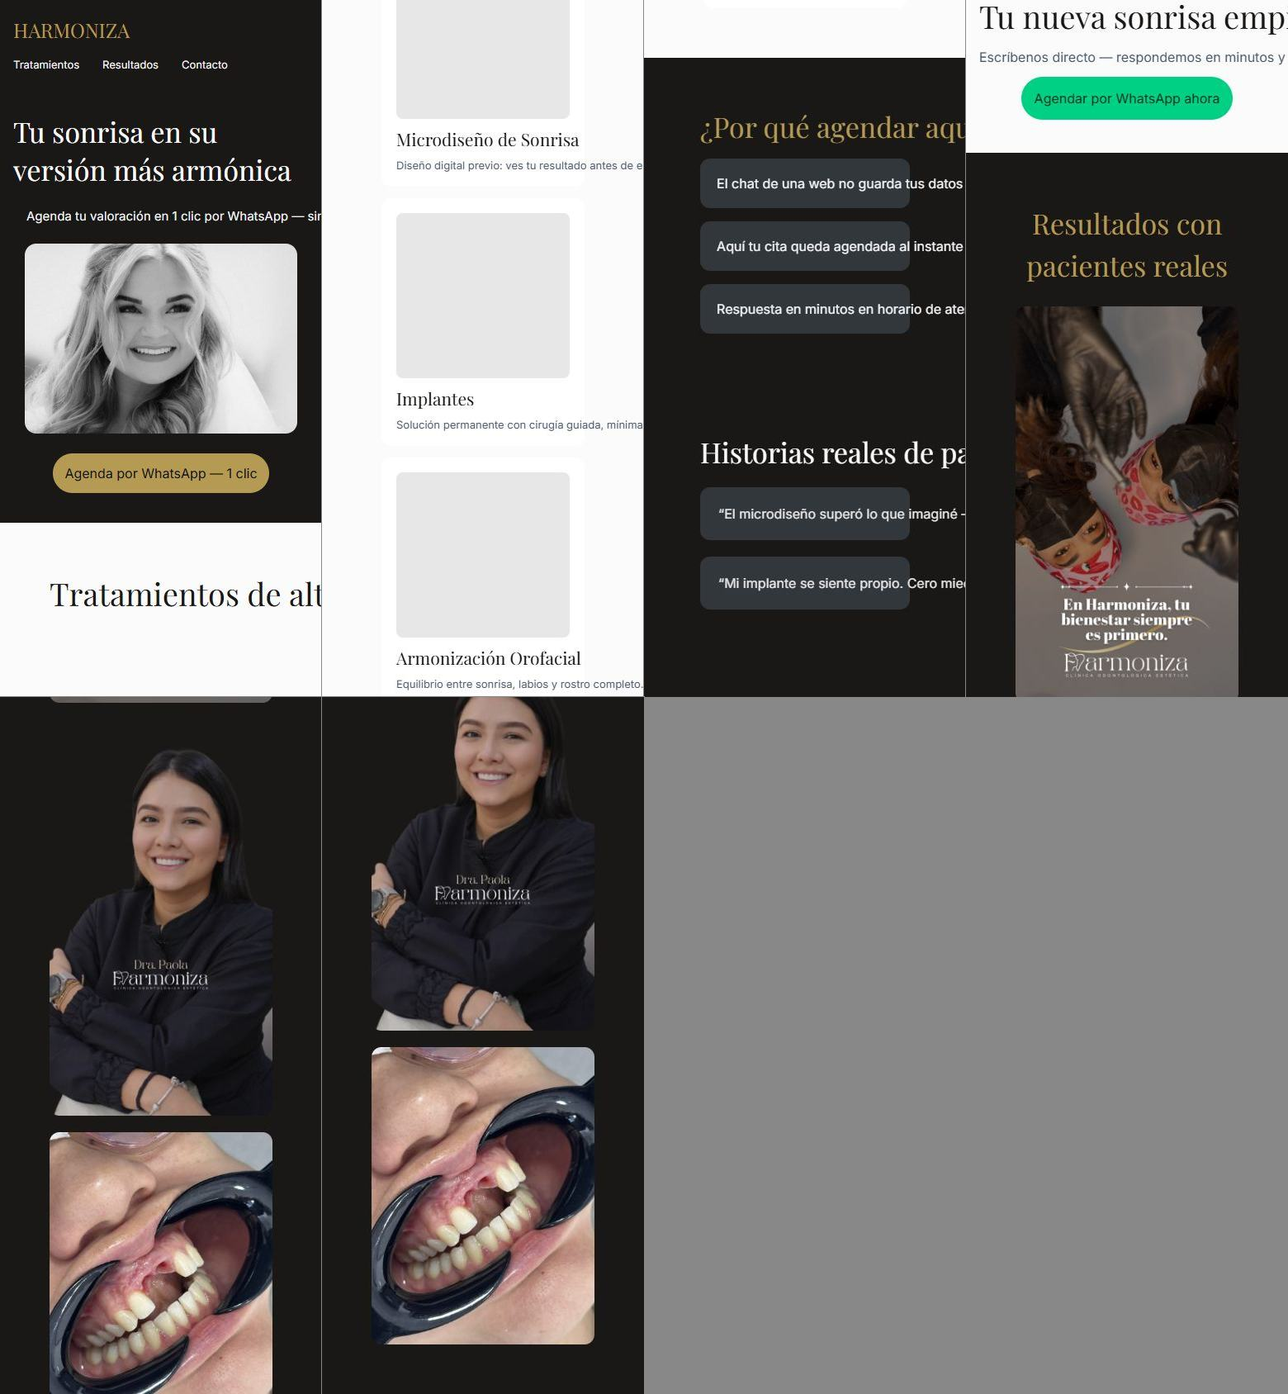
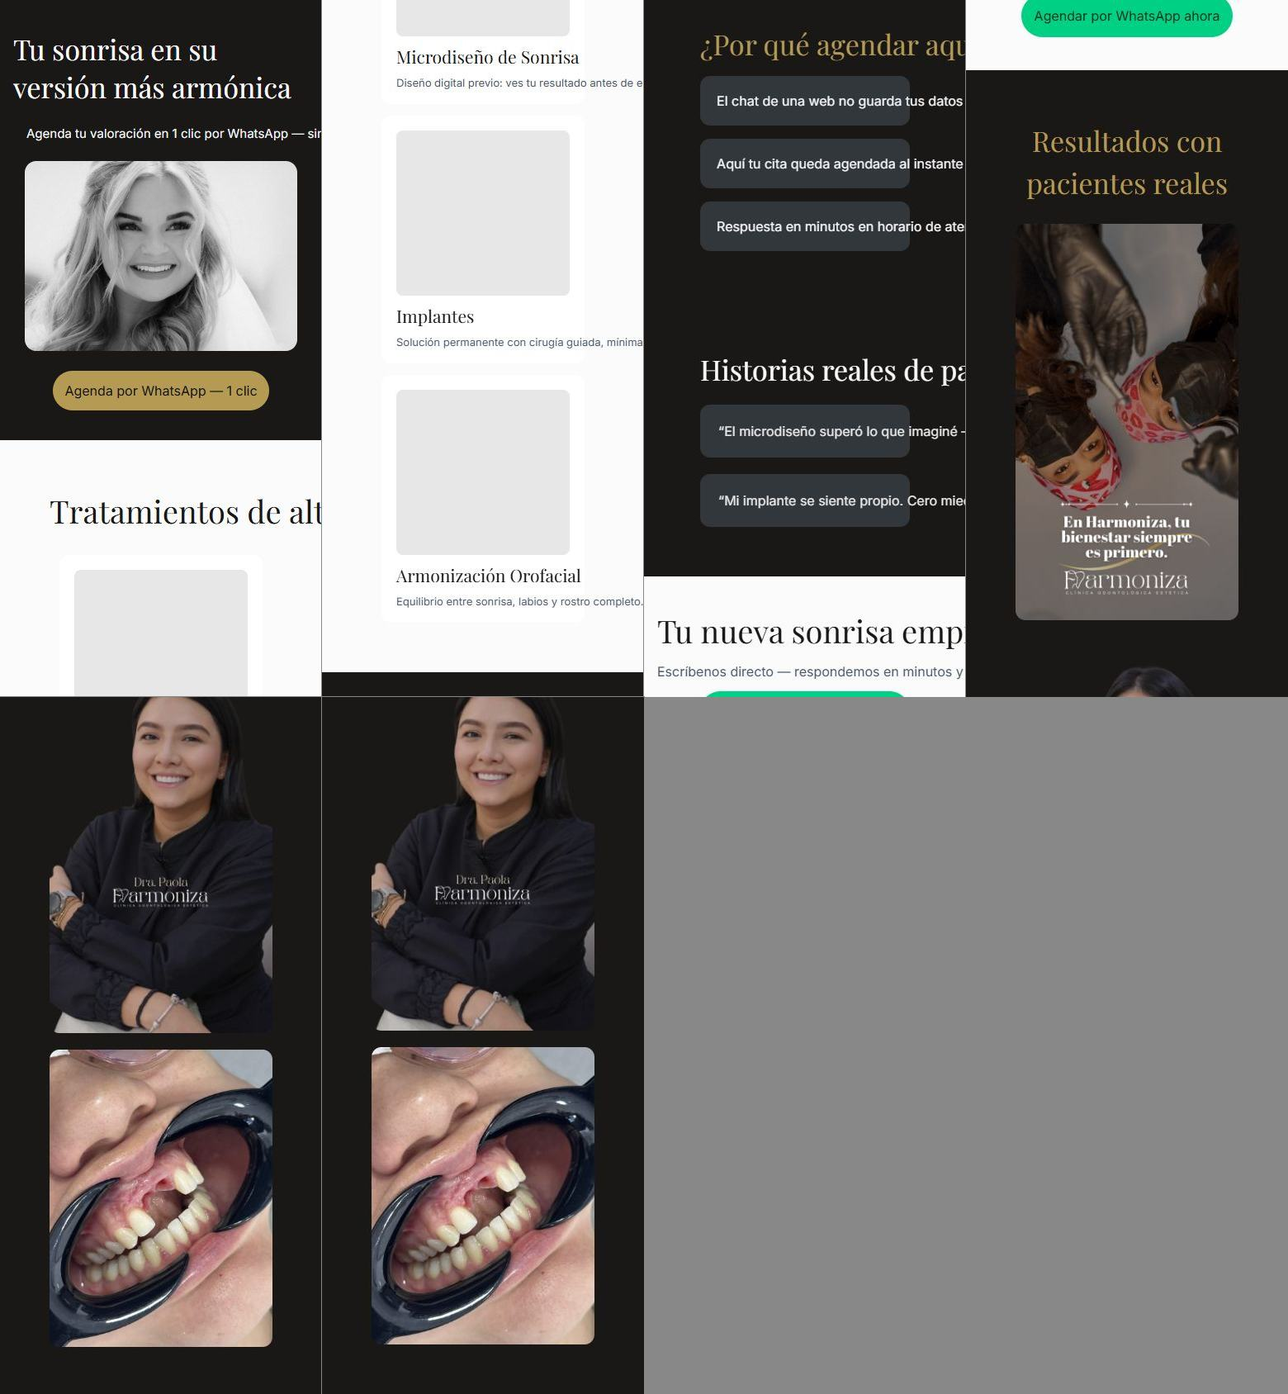
Harmoniza V9 REDISEÑO Apple-style: ritmo cinematico, alternancia secciones, tipografia display tight, dorado unico acento, stats banda

diff --git a/harmoniza-odontologia-estetica/index.html b/harmoniza-odontologia-estetica/index.html
@@ -27,7 +27,6 @@ html,body{margin:0;padding:0;background:#1A1816}
 body > div { max-width:100vw; overflow-x:hidden }
 @media (max-width: 768px) {
   [data-pencil-name="Nav"] { display:none !important }
-  [data-pencil-name="Nav"] { gap:12px !important; padding:14px 16px !important; flex-wrap:wrap !important }
   [data-pencil-name="H1"] { font-size:34px !important; white-space:normal !important; text-align:center }
   [data-pencil-name="Sub"] { font-size:15px !important; text-align:center; padding:0 16px }
   [data-pencil-name="Hero"] { padding:36px 16px !important; height:auto !important }
@@ -42,238 +41,228 @@ img{max-width:100%;height:auto}
 </style></head>
   <body>
     <div
-      data-pencil-name="Harmoniza V2"
+      data-pencil-name="Harmoniza Apple"
       class="box-border w-full max-w-[1440px] mx-auto h-fit flex flex-col gap-0 justify-start items-start bg-[#1A1816] overflow-hidden"
     >
       <div
-        data-pencil-name="Nav"
-        class="box-border w-full h-fit shrink-0 flex flex-row gap-[300px] p-[20px] justify-start items-center"
-      >
-        <div
-          data-pencil-name="LogoBox"
-          class="box-border w-fit shrink-0 h-[44px] flex flex-row gap-0 justify-start items-center"
-        >
-          <div
-            data-pencil-name="Logo"
-            class="text-[24px]/[normal] box-border text-[#B49A53] font-['Playfair_Display',system-ui,sans-serif] font-normal text-left [white-space:nowrap]"
-          >
-            HARMONIZA
-          </div>
-        </div>
-        <div
-          class="box-border w-fit shrink-0 h-fit flex flex-row gap-[28px] justify-start items-center"
-        >
-          <div
-            class="text-[13px]/[normal] box-border text-[#F3F4F6] font-[Inter,system-ui,sans-serif] font-normal text-left [white-space:nowrap]"
-          >
-            Tratamientos
-          </div>
-          <div
-            class="text-[13px]/[normal] box-border text-[#F3F4F6] font-[Inter,system-ui,sans-serif] font-normal text-left [white-space:nowrap]"
-          >
-            Resultados
-          </div>
-          <div
-            class="text-[13px]/[normal] box-border text-[#F3F4F6] font-[Inter,system-ui,sans-serif] font-normal text-left [white-space:nowrap]"
-          >
-            Contacto
-          </div>
-        </div>
-      </div>
-      <div
         data-pencil-name="Hero"
-        class="box-border w-full h-fit shrink-0 flex flex-col gap-[24px] p-[70px] justify-center items-center bg-[#1A1816]"
+        class="box-border w-full h-fit shrink-0 flex flex-col gap-[28px] p-[90px] justify-center items-center"
       >
         <div
           data-pencil-name="H1"
-          class="text-[58px]/[normal] box-border text-[#FBFBFB] font-['Playfair_Display',system-ui,sans-serif] font-normal text-left [white-space:nowrap]"
+          class="text-[56px]/[normal] box-border text-[#FBFBFB] font-['Playfair_Display',system-ui,sans-serif] font-semibold text-left [white-space:nowrap]"
         >
-          Tu sonrisa en su versión más armónica
+          Tu sonrisa, en su versión más armónica.
         </div>
         <div
           data-pencil-name="Sub"
-          class="text-[19px]/[normal] box-border text-[#F3F4F6] font-[Inter,system-ui,sans-serif] font-normal text-left [white-space:nowrap]"
+          class="text-[21px]/[normal] box-border text-[#B49A53] font-[Inter,system-ui,sans-serif] font-normal text-left [white-space:nowrap]"
         >
-          Agenda tu valoración en 1 clic por WhatsApp — sin formularios ni esperas. Rating 4.5+ en
-          reseñas reales de pacientes.
+          Odontología estética premium en Medellín. Diseño digital previo, resultado garantizado.
         </div>
         <div
           data-pencil-name="HeroImg"
-          class="box-border w-[1100px] h-[400px] shrink-0 flex flex-row gap-0 justify-start items-start bg-[url('https://images.unsplash.com/photo-1708127851232-d1a1bcbd5449?crop=entropy&amp;cs=tinysrgb&amp;fit=max&amp;fm=jpg&amp;ixid=M3w4NDM0ODN8MHwxfHJhbmRvbXx8fHx8fHx8fDE3OTIwMDU3NTd8&amp;ixlib=rb-4.1.0&amp;q=80&amp;w=1080')] bg-no-repeat bg-cover bg-center rounded-[14px]"
+          class="box-border w-[1200px] h-[520px] shrink-0 flex flex-row gap-0 justify-start items-start bg-[url('https://images.unsplash.com/photo-1647453042620-b41b8c8528f8?crop=entropy&amp;cs=tinysrgb&amp;fit=max&amp;fm=jpg&amp;ixid=M3w4NDM0ODN8MHwxfHJhbmRvbXx8fHx8fHx8fDE3OTIwMDg3MjF8&amp;ixlib=rb-4.1.0&amp;q=80&amp;w=1080')] bg-no-repeat bg-cover bg-center rounded-[12px]"
         ></div>
-        <a href="https://wa.me/573150596255?text=Hola%20Harmoniza%2C%20quiero%20agendar%20mi%20valoraci%C3%B3n" target="_blank" rel="noopener" style="text-decoration:none;display:inline-block"><div
-          data-pencil-name="CTA"
-          class="box-border w-fit h-fit shrink-0 flex flex-row gap-0 p-[14px] justify-start items-center bg-[#B49A53] rounded-[28px]"
+        <div
+          data-pencil-name="CTAs"
+          class="box-border w-fit h-fit shrink-0 flex flex-row gap-[16px] justify-start items-center"
+        >
+          <a href="https://wa.me/573150596255?text=Hola%20Harmoniza%2C%20quiero%20agendar%20mi%20valoraci%C3%B3n" target="_blank" rel="noopener" style="text-decoration:none;display:inline-block"><div data-pencil-name="CTA" class="box-border w-fit shrink-0 h-fit flex flex-row gap-0 p-[12px_24px] justify-start items-center bg-[#B49A53] rounded-[980px]"><div
+              class="text-[17px]/[normal] box-border text-[#1A1816] font-[Inter,system-ui,sans-serif] font-normal text-left [white-space:nowrap]"
+            >
+              <span style="color:#141210">Agenda tu valoración
+            </span></div>
+          </div></a>
+        </div>
+      </div>
+      <div
+        data-pencil-name="Rating"
+        class="box-border w-full h-fit shrink-0 flex flex-row gap-[60px] p-[50px] justify-center items-center bg-[#F5F4F0]"
+      >
+        <div
+          class="box-border w-fit shrink-0 h-fit flex flex-col gap-[6px] justify-start items-center"
         >
           <div
-            class="text-[16px]/[normal] box-border text-[#1A1816] font-[Inter,system-ui,sans-serif] font-normal text-left [white-space:nowrap]"
+            class="text-[48px]/[normal] box-border text-[#1A1816] font-['Playfair_Display',system-ui,sans-serif] font-semibold text-left [white-space:nowrap]"
           >
-            <span style="color:#141210">Agenda por WhatsApp — 1 clic</span>
+            4.5+
           </div>
-        </div></a>
+          <div
+            class="text-[15px]/[normal] box-border text-[#6B6560] font-[Inter,system-ui,sans-serif] font-normal text-left [white-space:nowrap]"
+          >
+            Rating en reseñas reales
+          </div>
+        </div>
+        <div
+          class="box-border w-fit shrink-0 h-fit flex flex-col gap-[6px] justify-start items-center"
+        >
+          <div
+            class="text-[48px]/[normal] box-border text-[#1A1816] font-['Playfair_Display',system-ui,sans-serif] font-semibold text-left [white-space:nowrap]"
+          >
+            +12
+          </div>
+          <div
+            class="text-[15px]/[normal] box-border text-[#6B6560] font-[Inter,system-ui,sans-serif] font-normal text-left [white-space:nowrap]"
+          >
+            Años de experiencia
+          </div>
+        </div>
+        <div
+          class="box-border w-fit shrink-0 h-fit flex flex-col gap-[6px] justify-start items-center"
+        >
+          <div
+            class="text-[48px]/[normal] box-border text-[#1A1816] font-['Playfair_Display',system-ui,sans-serif] font-semibold text-left [white-space:nowrap]"
+          >
+            +1000
+          </div>
+          <div
+            class="text-[15px]/[normal] box-border text-[#6B6560] font-[Inter,system-ui,sans-serif] font-normal text-left [white-space:nowrap]"
+          >
+            Pacientes atendidos
+          </div>
+        </div>
       </div>
       <div
         data-pencil-name="Tratamientos"
-        class="box-border w-full h-fit shrink-0 flex flex-col gap-[28px] p-[60px] justify-start items-start bg-[#FBFBFB]"
+        class="box-border w-full h-fit shrink-0 flex flex-col gap-[40px] p-[100px] justify-start items-start"
       >
         <div
           data-pencil-name="TratTitle"
-          class="text-[38px]/[normal] box-border text-[#1A1816] font-['Playfair_Display',system-ui,sans-serif] font-normal text-left [white-space:nowrap]"
+          class="text-[40px]/[normal] box-border text-[#FBFBFB] font-['Playfair_Display',system-ui,sans-serif] font-semibold text-left [white-space:nowrap]"
         >
-          Tratamientos de alto impacto
+          Tres caminos a una misma meta.
         </div>
         <div
           data-pencil-name="Grid"
-          class="box-border w-full h-fit shrink-0 flex flex-row gap-[20px] justify-start items-start"
+          class="box-border w-full h-fit shrink-0 flex flex-row gap-[28px] justify-start items-start"
         >
           <div
-            data-pencil-name="Card-Microdiseño de Sonrisa"
-            class="box-border [flex:1_1_0] h-fit flex flex-col gap-[10px] p-[18px] justify-start items-start bg-[#FFFFFF] rounded-[12px]"
+            data-pencil-name="Card-Microdiseño"
+            class="box-border [flex:1_1_0] h-fit flex flex-col gap-[14px] justify-start items-start"
           >
             <div
               data-pencil-name="Img"
-              class="box-border w-full h-[200px] shrink-0 flex flex-row gap-0 justify-start items-start bg-[#E7E7E7] rounded-[8px]"
+              class="box-border w-full h-[300px] shrink-0 flex flex-row gap-0 justify-start items-start bg-[url('https://images.unsplash.com/photo-1674770715040-a22a25e1eafc?crop=entropy&amp;cs=tinysrgb&amp;fit=max&amp;fm=jpg&amp;ixid=M3w4NDM0ODN8MHwxfHJhbmRvbXx8fHx8fHx8fDE3OTIwMDg3MjF8&amp;ixlib=rb-4.1.0&amp;q=80&amp;w=1080')] bg-no-repeat bg-cover bg-center rounded-[12px]"
             ></div>
             <div
-              class="text-[21px]/[normal] box-border text-[#1A1816] font-['Playfair_Display',system-ui,sans-serif] font-normal text-left [white-space:nowrap]"
+              class="text-[28px]/[normal] box-border text-[#FBFBFB] font-['Playfair_Display',system-ui,sans-serif] font-normal text-left [white-space:nowrap]"
             >
-              Microdiseño de Sonrisa
+              Microdiseño
             </div>
             <div
-              class="text-[13px]/[normal] box-border text-[#475569] font-[Inter,system-ui,sans-serif] font-normal text-left [white-space:nowrap]"
+              class="text-[15px]/[normal] box-border text-[#9C948C] font-[Inter,system-ui,sans-serif] font-normal text-left [white-space:nowrap]"
             >
-              Diseño digital previo: ves tu resultado antes de empezar.
+              Ves tu nueva sonrisa en digital antes de tocar un diente. Sesión única.
             </div>
           </div>
           <div
             data-pencil-name="Card-Implantes"
-            class="box-border [flex:1_1_0] h-fit flex flex-col gap-[10px] p-[18px] justify-start items-start bg-[#FFFFFF] rounded-[12px]"
+            class="box-border [flex:1_1_0] h-fit flex flex-col gap-[14px] justify-start items-start"
           >
             <div
               data-pencil-name="Img"
-              class="box-border w-full h-[200px] shrink-0 flex flex-row gap-0 justify-start items-start bg-[#E7E7E7] rounded-[8px]"
+              class="box-border w-full h-[300px] shrink-0 flex flex-row gap-0 justify-start items-start bg-[url('https://images.unsplash.com/photo-1728342057953-94bfad8f0e7e?crop=entropy&amp;cs=tinysrgb&amp;fit=max&amp;fm=jpg&amp;ixid=M3w4NDM0ODN8MHwxfHJhbmRvbXx8fHx8fHx8fDE3OTIwMDg3MjJ8&amp;ixlib=rb-4.1.0&amp;q=80&amp;w=1080')] bg-no-repeat bg-cover bg-center rounded-[12px]"
             ></div>
             <div
-              class="text-[21px]/[normal] box-border text-[#1A1816] font-['Playfair_Display',system-ui,sans-serif] font-normal text-left [white-space:nowrap]"
+              class="text-[28px]/[normal] box-border text-[#FBFBFB] font-['Playfair_Display',system-ui,sans-serif] font-normal text-left [white-space:nowrap]"
             >
               Implantes
             </div>
             <div
-              class="text-[13px]/[normal] box-border text-[#475569] font-[Inter,system-ui,sans-serif] font-normal text-left [white-space:nowrap]"
+              class="text-[15px]/[normal] box-border text-[#9C948C] font-[Inter,system-ui,sans-serif] font-normal text-left [white-space:nowrap]"
             >
-              Solución permanente con cirugía guiada, mínima invasión.
+              Cirugía guiada por computadora. Mínima invasión, recuperación rápida.
             </div>
           </div>
           <div
-            data-pencil-name="Card-Armonización Orofacial"
-            class="box-border [flex:1_1_0] h-fit flex flex-col gap-[10px] p-[18px] justify-start items-start bg-[#FFFFFF] rounded-[12px]"
+            data-pencil-name="Card-Armonización"
+            class="box-border [flex:1_1_0] h-fit flex flex-col gap-[14px] justify-start items-start"
           >
             <div
               data-pencil-name="Img"
-              class="box-border w-full h-[200px] shrink-0 flex flex-row gap-0 justify-start items-start bg-[#E7E7E7] rounded-[8px]"
+              class="box-border w-full h-[300px] shrink-0 flex flex-row gap-0 justify-start items-start bg-[url('https://images.unsplash.com/photo-1637325262439-1c4a17dc806c?crop=entropy&amp;cs=tinysrgb&amp;fit=max&amp;fm=jpg&amp;ixid=M3w4NDM0ODN8MHwxfHJhbmRvbXx8fHx8fHx8fDE3OTIwMDg3MjN8&amp;ixlib=rb-4.1.0&amp;q=80&amp;w=1080')] bg-no-repeat bg-cover bg-center rounded-[12px]"
             ></div>
             <div
-              class="text-[21px]/[normal] box-border text-[#1A1816] font-['Playfair_Display',system-ui,sans-serif] font-normal text-left [white-space:nowrap]"
+              class="text-[28px]/[normal] box-border text-[#FBFBFB] font-['Playfair_Display',system-ui,sans-serif] font-normal text-left [white-space:nowrap]"
             >
-              Armonización Orofacial
+              Armonización
             </div>
             <div
-              class="text-[13px]/[normal] box-border text-[#475569] font-[Inter,system-ui,sans-serif] font-normal text-left [white-space:nowrap]"
+              class="text-[15px]/[normal] box-border text-[#9C948C] font-[Inter,system-ui,sans-serif] font-normal text-left [white-space:nowrap]"
             >
-              Equilibrio entre sonrisa, labios y rostro completo.
+              Sonrisa, labios y rostro en equilibrio. El resultado se nota, el trabajo no.
             </div>
           </div>
         </div>
       </div>
       <div
-        data-pencil-name="PorQue"
-        class="box-border w-full h-fit shrink-0 flex flex-col gap-[16px] p-[60px] justify-start items-center bg-[#1A1816]"
+        data-pencil-name="Dolor"
+        class="box-border w-full h-fit shrink-0 flex flex-col gap-[24px] p-[100px] justify-start items-start bg-[#F5F4F0]"
       >
         <div
           data-pencil-name="DolorTitle"
-          class="text-[34px]/[normal] box-border text-[#B49A53] font-['Playfair_Display',system-ui,sans-serif] font-normal text-left [white-space:nowrap]"
+          class="text-[40px]/[normal] box-border text-[#1A1816] font-['Playfair_Display',system-ui,sans-serif] font-semibold text-left [white-space:nowrap]"
         >
-          ¿Por qué agendar aquí y no por el chat de la web?
+          ¿Por qué no usar el chat de la web?
         </div>
         <div
-          class="box-border w-[850px] h-fit shrink-0 flex flex-row gap-[8px] p-[20px] justify-start items-center bg-[#32373C] rounded-[12px]"
+          data-pencil-name="DolorTxt"
+          class="text-[17px]/[normal] box-border text-[#4A4440] font-[Inter,system-ui,sans-serif] font-normal text-left [white-space:nowrap]"
         >
-          <div
-            class="text-[16px]/[normal] box-border text-[#F3F4F6] font-[Inter,system-ui,sans-serif] font-normal text-left [white-space:nowrap]"
-          >
-            El chat de una web no guarda tus datos ni te recuerda la cita.
-          </div>
-        </div>
-        <div
-          class="box-border w-[850px] h-fit shrink-0 flex flex-row gap-[8px] p-[20px] justify-start items-center bg-[#32373C] rounded-[12px]"
-        >
-          <div
-            class="text-[16px]/[normal] box-border text-[#F3F4F6] font-[Inter,system-ui,sans-serif] font-normal text-left [white-space:nowrap]"
-          >
-            Aquí tu cita queda agendada al instante en nuestro WhatsApp.
-          </div>
-        </div>
-        <div
-          class="box-border w-[850px] h-fit shrink-0 flex flex-row gap-[8px] p-[20px] justify-start items-center bg-[#32373C] rounded-[12px]"
-        >
-          <div
-            class="text-[16px]/[normal] box-border text-[#F3F4F6] font-[Inter,system-ui,sans-serif] font-normal text-left [white-space:nowrap]"
-          >
-            Respuesta en minutos en horario de atención — con una persona real.
-          </div>
+          El chat pierde tus datos, no confirma tu cita y no te recuerda nada. Aquí tu valoración
+          queda agendada desde el primer mensaje, con una persona real al otro lado.
         </div>
       </div>
       <div
-        data-pencil-name="Testimonios"
-        class="box-border w-full h-fit shrink-0 flex flex-col gap-[20px] p-[60px] justify-start items-center"
+        data-pencil-name="Historias"
+        class="box-border w-full h-fit shrink-0 flex flex-col gap-[40px] p-[100px] justify-start items-start"
       >
         <div
-          data-pencil-name="TestTitle"
-          class="text-[34px]/[normal] box-border text-[#FBFBFB] font-['Playfair_Display',system-ui,sans-serif] font-normal text-left [white-space:nowrap]"
+          data-pencil-name="HistTitle"
+          class="text-[40px]/[normal] box-border text-[#FBFBFB] font-['Playfair_Display',system-ui,sans-serif] font-semibold text-left [white-space:nowrap]"
         >
-          Historias reales de pacientes
+          Resultados reales, publicados por la clínica.
         </div>
         <div
-          class="box-border w-[750px] h-fit shrink-0 flex flex-row gap-[8px] p-[22px] justify-start items-start bg-[#32373C] rounded-[12px]"
+          data-pencil-name="GridH"
+          class="box-border w-full h-fit shrink-0 flex flex-row gap-[20px] justify-start items-start"
         >
           <div
-            class="text-[16px]/[normal] box-border text-[#E7E7E7] font-[Inter,system-ui,sans-serif] font-normal text-left [white-space:nowrap]"
-          >
-            “El microdiseño superó lo que imaginé — vi mi sonrisa nueva antes de empezar.”
-          </div>
-        </div>
-        <div
-          class="box-border w-[750px] h-fit shrink-0 flex flex-row gap-[8px] p-[22px] justify-start items-start bg-[#32373C] rounded-[12px]"
-        >
+            data-pencil-name="Hist1"
+            class="box-border [flex:1_1_0] h-[380px] flex flex-row gap-0 justify-start items-start bg-[url('https://images.unsplash.com/photo-1684607632968-3d2901f8b183?crop=entropy&amp;cs=tinysrgb&amp;fit=max&amp;fm=jpg&amp;ixid=M3w4NDM0ODN8MHwxfHJhbmRvbXx8fHx8fHx8fDE3OTIwMDg3MjR8&amp;ixlib=rb-4.1.0&amp;q=80&amp;w=1080')] bg-no-repeat bg-cover bg-center rounded-[12px]"
+          ></div>
           <div
-            class="text-[16px]/[normal] box-border text-[#E7E7E7] font-[Inter,system-ui,sans-serif] font-normal text-left [white-space:nowrap]"
-          >
-            “Mi implante se siente propio. Cero miedo, cero dolor.”
-          </div>
+            data-pencil-name="Hist2"
+            class="box-border [flex:1_1_0] h-[380px] flex flex-row gap-0 justify-start items-start bg-[url('https://images.unsplash.com/photo-1790575188407-5f697a0ed65e?crop=entropy&amp;cs=tinysrgb&amp;fit=max&amp;fm=jpg&amp;ixid=M3w4NDM0ODN8MHwxfHJhbmRvbXx8fHx8fHx8fDE3OTIwMDg3MjR8&amp;ixlib=rb-4.1.0&amp;q=80&amp;w=1080')] bg-no-repeat bg-cover bg-center rounded-[12px]"
+          ></div>
+          <div
+            data-pencil-name="Hist3"
+            class="box-border [flex:1_1_0] h-[380px] flex flex-row gap-0 justify-start items-start bg-[url('https://images.unsplash.com/photo-1661438818937-437f1aeaf08e?crop=entropy&amp;cs=tinysrgb&amp;fit=max&amp;fm=jpg&amp;ixid=M3w4NDM0ODN8MHwxfHJhbmRvbXx8fHx8fHx8fDE3OTIwMDg3MjR8&amp;ixlib=rb-4.1.0&amp;q=80&amp;w=1080')] bg-no-repeat bg-cover bg-center rounded-[12px]"
+          ></div>
         </div>
       </div>
       <div
-        data-pencil-name="Contacto"
-        class="box-border w-full h-fit shrink-0 flex flex-col gap-[14px] p-[70px] justify-start items-center bg-[#FBFBFB]"
+        data-pencil-name="Final"
+        class="box-border w-full h-fit shrink-0 flex flex-col gap-[24px] p-[130px] justify-start items-center"
       >
         <div
-          class="text-[38px]/[normal] box-border text-[#1A1816] font-['Playfair_Display',system-ui,sans-serif] font-normal text-left [white-space:nowrap]"
+          data-pencil-name="FinalTitle"
+          class="text-[48px]/[normal] box-border text-[#FBFBFB] font-['Playfair_Display',system-ui,sans-serif] font-semibold text-left [white-space:nowrap]"
         >
-          Tu nueva sonrisa empieza con un mensaje
+          Tu nueva sonrisa empieza hoy.
         </div>
         <div
-          class="text-[16px]/[normal] box-border text-[#475569] font-[Inter,system-ui,sans-serif] font-normal text-left [white-space:nowrap]"
+          data-pencil-name="FinalSub"
+          class="text-[17px]/[normal] box-border text-[#9C948C] font-[Inter,system-ui,sans-serif] font-normal text-left [white-space:nowrap]"
         >
-          Escríbenos directo — respondemos en minutos y agendamos tu valoración.
+          Valoración en Medellín. Respuesta en minutos por WhatsApp.
         </div>
-        <a href="https://wa.me/573150596255?text=Hola%20Harmoniza%2C%20quiero%20agendar%20mi%20valoraci%C3%B3n" target="_blank" rel="noopener" style="text-decoration:none;display:inline-block"><div
-          class="box-border w-fit h-fit shrink-0 flex flex-row gap-0 p-[16px] justify-start items-start bg-[#00D084] rounded-[28px]"
-        >
-          <div
-            class="text-[16px]/[normal] box-border text-[#06301F] font-[Inter,system-ui,sans-serif] font-normal text-left [white-space:nowrap]"
+        <a href="https://wa.me/573150596255?text=Hola%20Harmoniza%2C%20quiero%20agendar%20mi%20valoraci%C3%B3n" target="_blank" rel="noopener" style="text-decoration:none;display:inline-block"><div data-pencil-name="waBtn" class="box-border w-fit h-fit shrink-0 flex flex-row gap-0 p-[14px_28px] justify-start items-start bg-[#B49A53] rounded-[980px]"><div
+            class="text-[17px]/[normal] box-border text-[#1A1816] font-[Inter,system-ui,sans-serif] font-normal text-left [white-space:nowrap]"
           >
-            <span style="color:#06301F">Agendar por WhatsApp ahora</span>
-          </div>
+            <span style="color:#141210">Agendar por WhatsApp
+          </span></div>
         </div></a>
       </div>
     </div>
